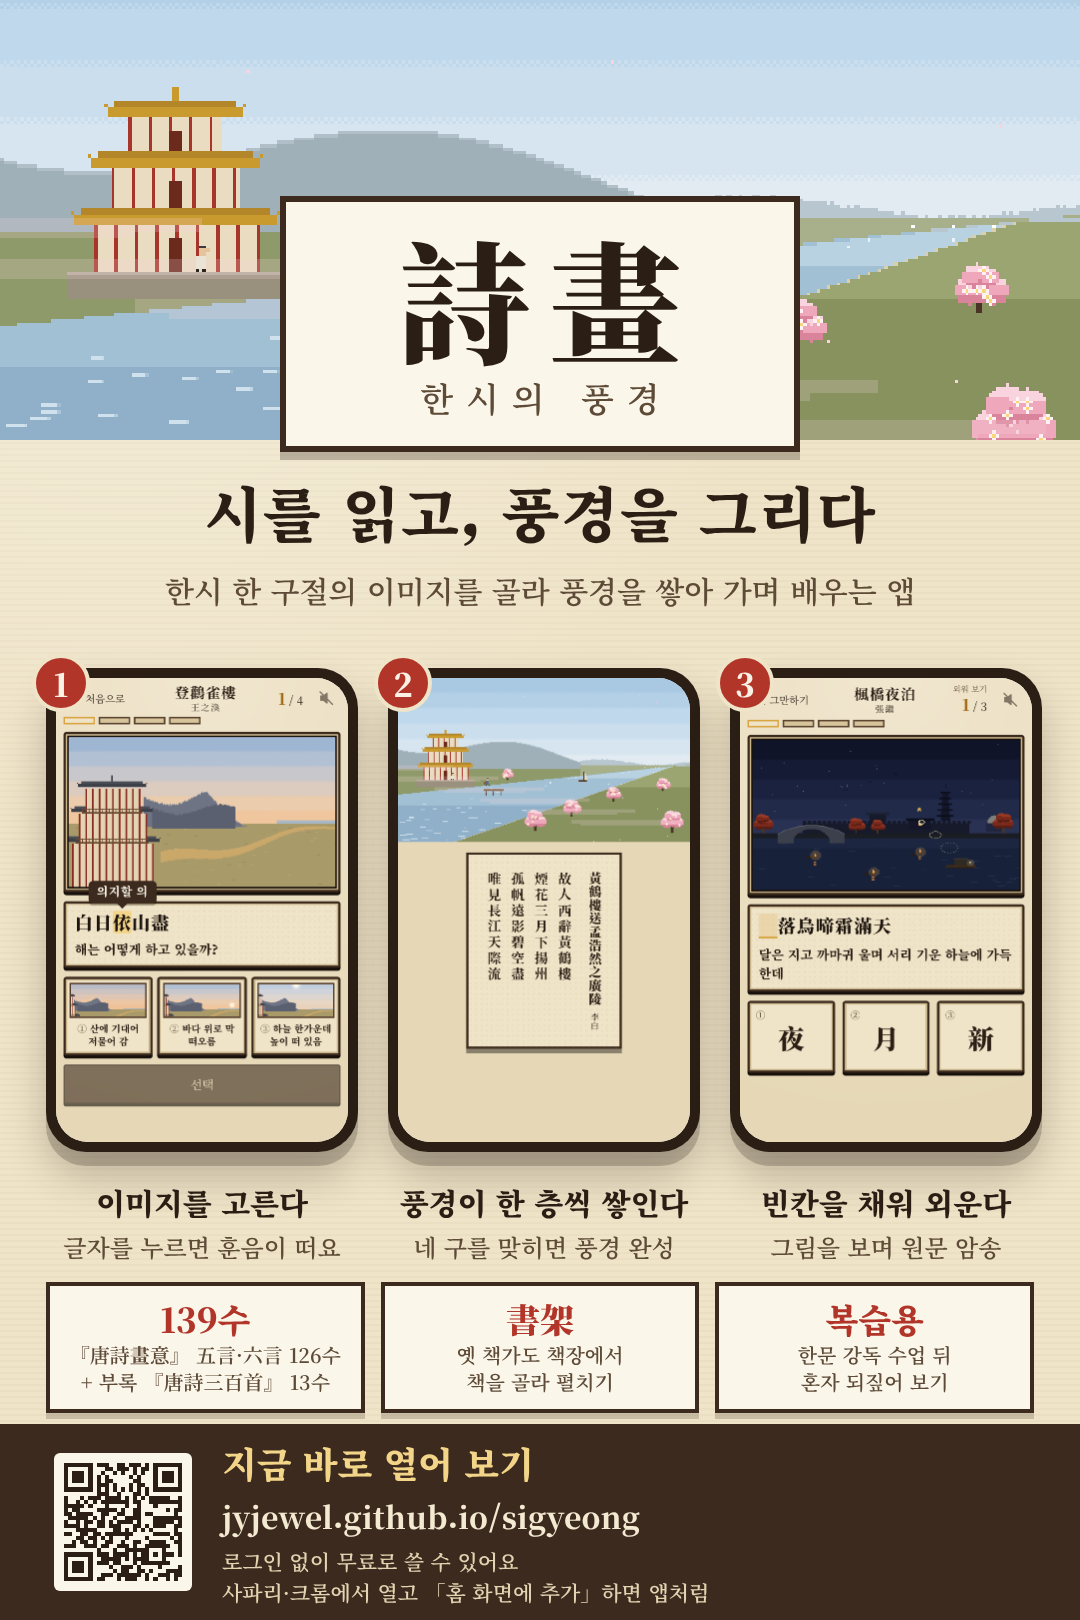
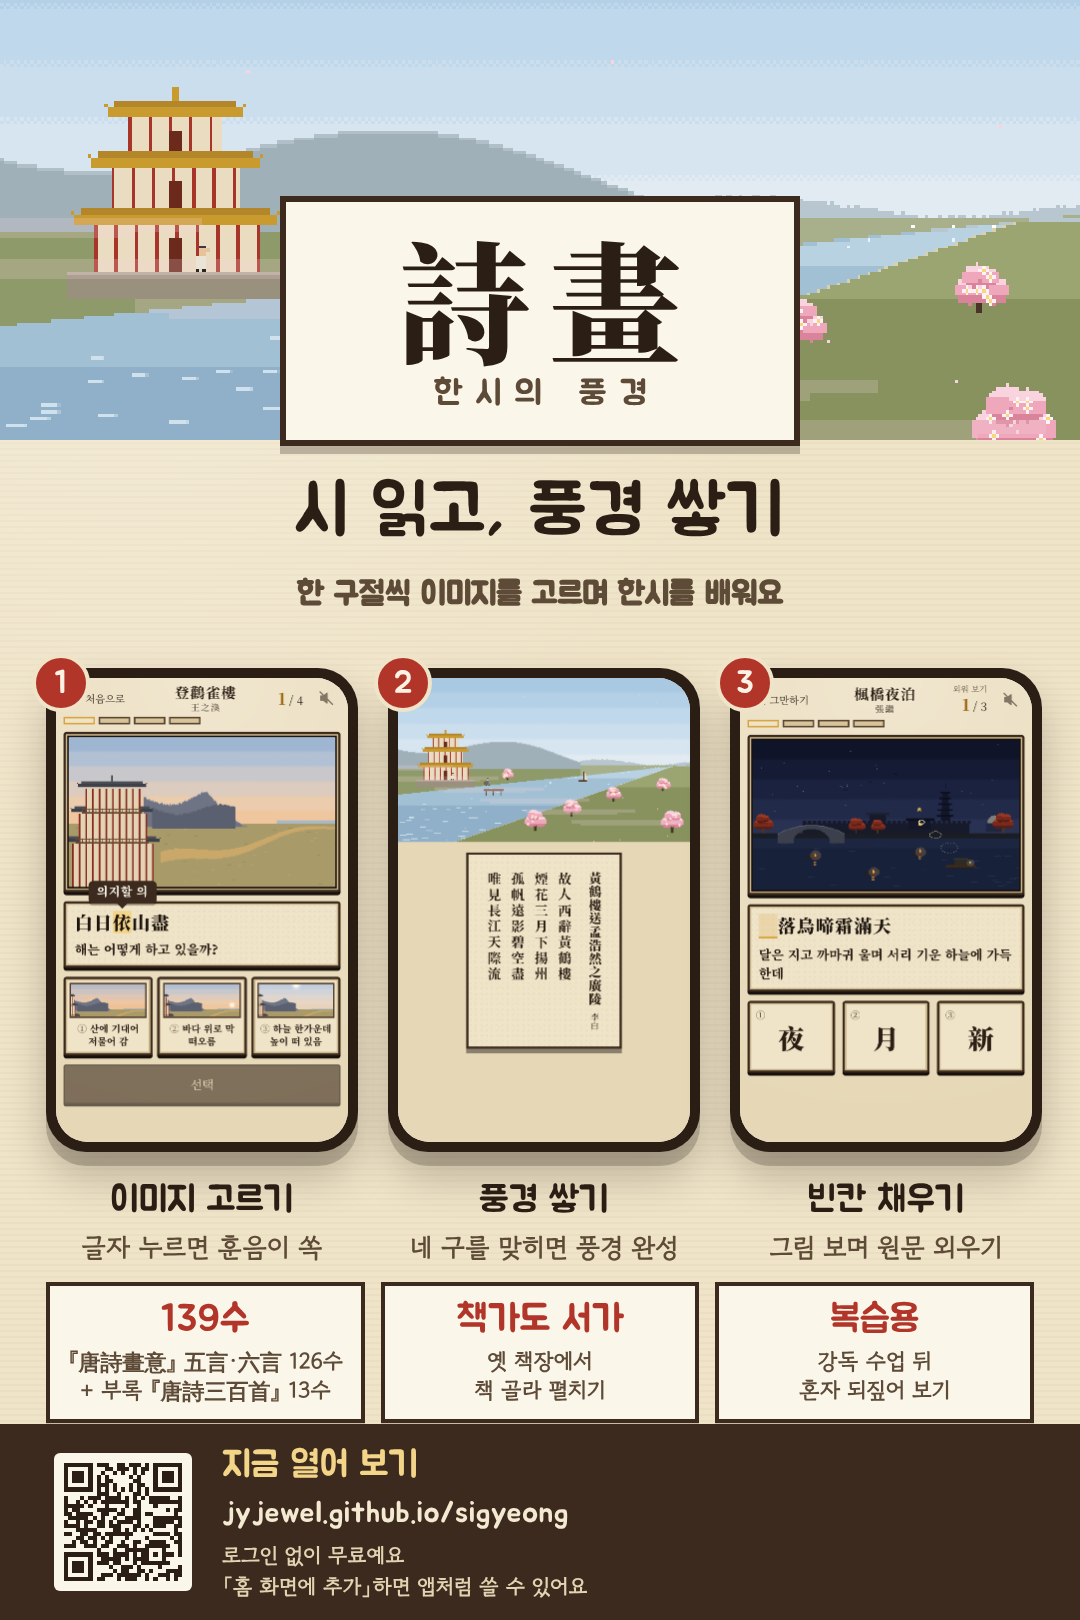
소개 이미지: 둥근 글씨체와 짧은 말투로 바꾼다
한글 글씨체를 명조 계열에서 둥근 글꼴로 바꾸고, 문구를 '이미지 고르기', '풍경 쌓기', '빈칸 채우기'처럼 짧게 고친다.

Claude-Session: https://claude.ai/code/session_013GEQhN3ERRqfey7qzKR9Tk

diff --git a/docs/pamphlet/kakao.html b/docs/pamphlet/kakao.html
@@ -11,19 +11,19 @@ body{width:1080px;height:1620px;background:var(--paper);position:relative;overfl
 .title .t{font-size:132px;font-weight:900;letter-spacing:.14em;margin-right:-.14em;line-height:1.05}
 .title .s{font-size:34px;letter-spacing:.38em;margin-right:-.38em;margin-top:6px;color:var(--soft);font-weight:600}
 .tag{position:absolute;left:0;right:0;top:468px;text-align:center}
-.tag h1{font-size:60px;font-weight:900;letter-spacing:.02em}
-.tag p{font-size:30px;color:var(--soft);margin-top:14px;font-weight:600;line-height:1.5}
+.tag h1{font-size:70px;letter-spacing:.01em}
+.tag p{font-size:32px;color:var(--soft);margin-top:14px;font-weight:600;line-height:1.5}
 .steps{position:absolute;left:46px;right:46px;top:668px;display:flex;gap:30px;justify-content:space-between}
 .step{width:312px;text-align:center}
 .step .phone{width:312px;height:484px;padding:10px;border-radius:40px}
 .step .phone .scr{border-radius:32px;height:100%}.step .phone img{object-fit:cover;object-position:top}
 .step .n{position:absolute;left:-14px;top:-14px;width:58px;height:58px;border-radius:50%;background:var(--red);color:#fbf1e4;font-size:32px;font-weight:900;display:grid;place-items:center;border:4px solid var(--paper);z-index:3}
-.step b{display:block;font-size:30px;font-weight:900;margin-top:28px}
-.step span{display:block;font-size:24px;color:var(--soft);margin-top:6px;line-height:1.4;font-weight:600}
+.step b{display:block;font-size:36px;margin-top:26px}
+.step span{display:block;font-size:26px;color:var(--soft);margin-top:6px;line-height:1.4;font-weight:600}
 .facts{position:absolute;left:46px;right:46px;top:1282px;display:flex;gap:16px}
 .fact{flex:1;border:4px solid var(--frame);background:var(--paper3);padding:14px 16px;text-align:center;box-shadow:0 6px 0 rgba(43,31,21,.2)}
-.fact b{display:block;font-size:34px;font-weight:900;color:var(--red);line-height:1.1}
-.fact span{display:block;font-size:20px;color:var(--soft);margin-top:4px;line-height:1.35;font-weight:600}
+.fact b{display:block;font-size:38px;font-weight:900;color:var(--red);line-height:1.1}
+.fact span{display:block;font-size:22px;color:var(--soft);margin-top:4px;line-height:1.35;font-weight:600}
 .foot{position:absolute;left:0;right:0;bottom:0;height:196px;background:var(--frame);color:#f4ead2;display:flex;align-items:center;gap:30px;padding:0 54px}
 .foot .qr{width:138px;height:138px;background:#fbf6ea;padding:6px;border-radius:6px;flex:none}
 .foot .qr img{width:100%;height:100%;image-rendering:pixelated}
@@ -34,16 +34,16 @@ body{width:1080px;height:1620px;background:var(--paper);position:relative;overfl
 <div class="bg"></div>
 <div class="hero"><img class="px" src="s-finale2-art.png"></div>
 <div class="title frame"><div class="t han">詩畫</div><div class="s">한시의 풍경</div></div>
-<div class="tag"><h1>시를 읽고, 풍경을 그리다</h1><p>한시 한 구절의 이미지를 골라 풍경을 쌓아 가며 배우는 앱</p></div>
+<div class="tag"><h1>시 읽고, 풍경 쌓기</h1><p>한 구절씩 이미지를 고르며 한시를 배워요</p></div>
 <div class="steps">
-  <div class="step"><div class="phone"><div class="n">1</div><div class="scr"><img src="s-play1.png"></div></div><b>이미지를 고른다</b><span>글자를 누르면 훈음이 떠요</span></div>
-  <div class="step"><div class="phone"><div class="n">2</div><div class="scr"><img src="s-finale2.png"></div></div><b>풍경이 한 층씩 쌓인다</b><span>네 구를 맞히면 풍경 완성</span></div>
-  <div class="step"><div class="phone"><div class="n">3</div><div class="scr"><img src="s-recall.png"></div></div><b>빈칸을 채워 외운다</b><span>그림을 보며 원문 암송</span></div>
+  <div class="step"><div class="phone"><div class="n">1</div><div class="scr"><img src="s-play1.png"></div></div><b>이미지 고르기</b><span>글자 누르면 훈음이 쏙</span></div>
+  <div class="step"><div class="phone"><div class="n">2</div><div class="scr"><img src="s-finale2.png"></div></div><b>풍경 쌓기</b><span>네 구를 맞히면 풍경 완성</span></div>
+  <div class="step"><div class="phone"><div class="n">3</div><div class="scr"><img src="s-recall.png"></div></div><b>빈칸 채우기</b><span>그림 보며 원문 외우기</span></div>
 </div>
 <div class="facts">
   <div class="fact"><b>139수</b><span>『唐詩畫意』 五言·六言 126수<br>+ 부록 『唐詩三百首』 13수</span></div>
-  <div class="fact"><b>書架</b><span>옛 책가도 책장에서<br>책을 골라 펼치기</span></div>
-  <div class="fact"><b>복습용</b><span>한문 강독 수업 뒤<br>혼자 되짚어 보기</span></div>
+  <div class="fact"><b>책가도 서가</b><span>옛 책장에서<br>책 골라 펼치기</span></div>
+  <div class="fact"><b>복습용</b><span>강독 수업 뒤<br>혼자 되짚어 보기</span></div>
 </div>
-<div class="foot"><div class="qr"><img src="qr.png"></div><div><h3>지금 바로 열어 보기</h3><div class="u">jyjewel.github.io/sigyeong</div><p>로그인 없이 무료로 쓸 수 있어요<br>사파리·크롬에서 열고 「홈 화면에 추가」하면 앱처럼</p></div></div>
+<div class="foot"><div class="qr"><img src="qr.png"></div><div><h3>지금 열어 보기</h3><div class="u">jyjewel.github.io/sigyeong</div><p>로그인 없이 무료예요<br>「홈 화면에 추가」하면 앱처럼 쓸 수 있어요</p></div></div>
 </body></html>
